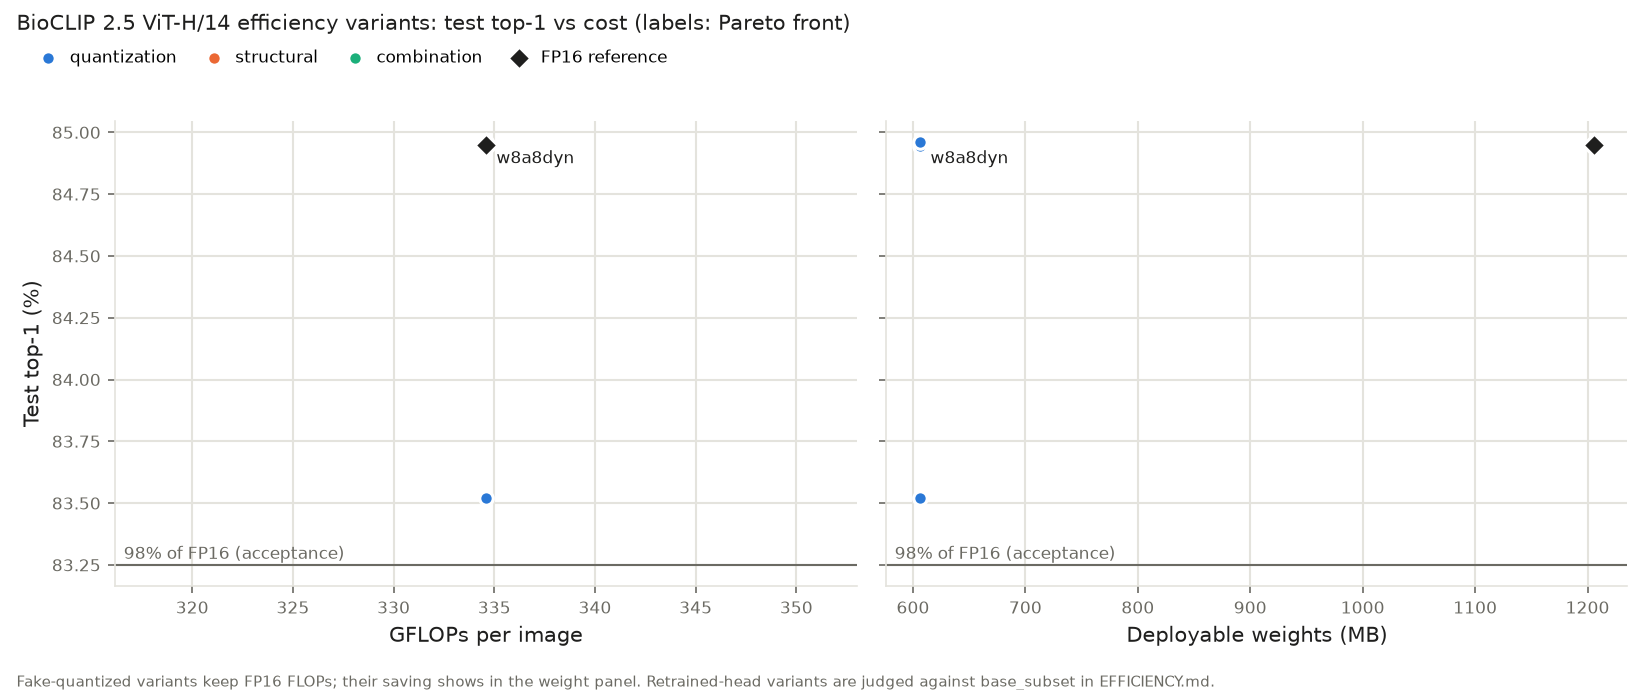
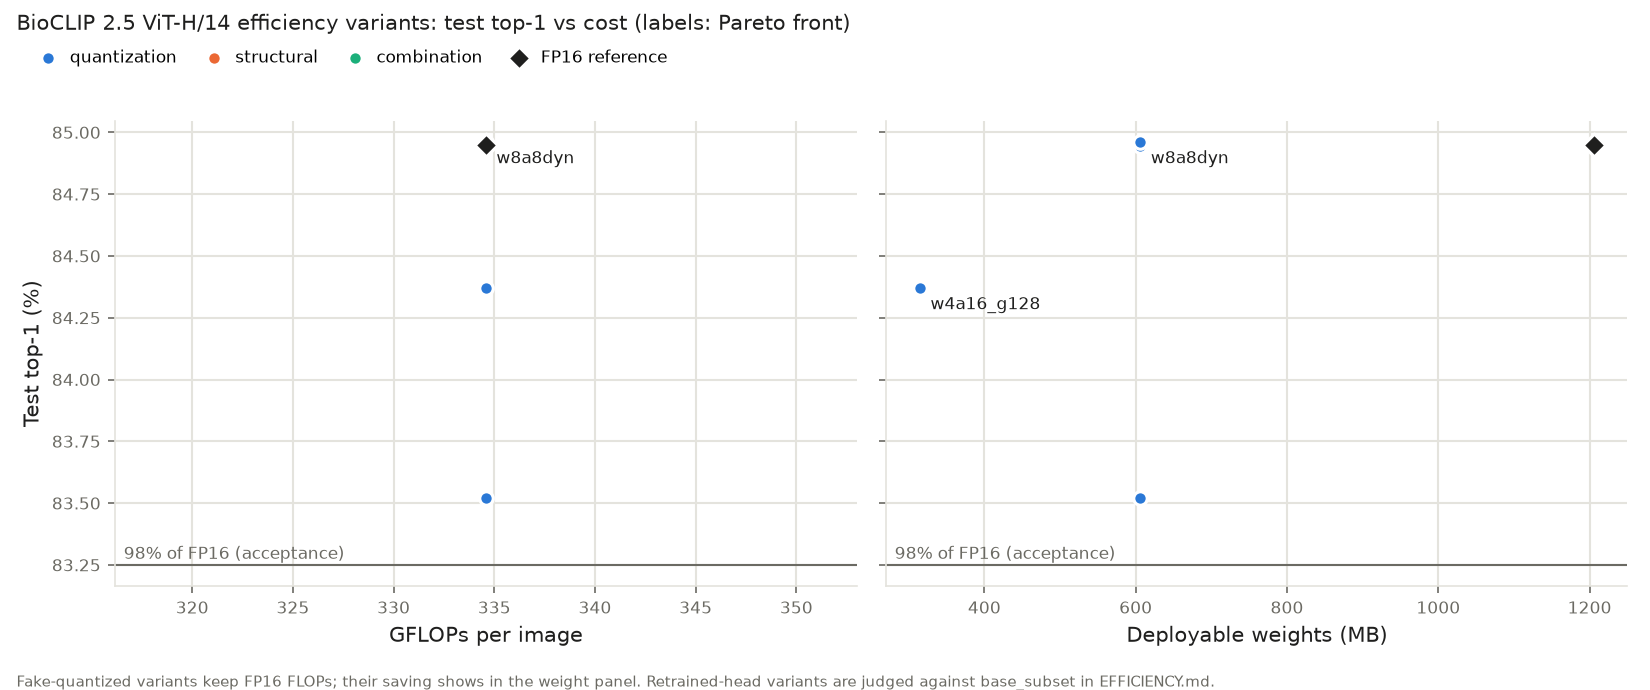
Pin the efficiency sweep's head to a frozen copy; D-029 export findings; w4a16_g128 row
artifacts/efficiency/_head/ holds the probe.pt + temperature.txt every
production-head efficiency row was scored with (byte-identical to the
current production files), so a new production probe (Phase B field
weighting) can be adopted without making the sweep's rows incomparable.

diff --git a/src/transferner/eval/efficiency.py b/src/transferner/eval/efficiency.py
@@ -39,6 +39,14 @@ from . import metrics as M
 REF = "fp16"
 
 
+def prod_head_dir(root):
+    """Head for every production-head variant: a frozen copy of artifacts/probe.pt + temperature.txt
+    taken before the sweep's first job (artifacts/efficiency/_head/), so adopting a new production
+    probe mid-sweep does not make the rows incomparable. Falls back to artifacts/."""
+    d = root / "artifacts/efficiency/_head"
+    return d if (d / "probe.pt").exists() else root / "artifacts"
+
+
 def parser() -> argparse.ArgumentParser:
     ap = argparse.ArgumentParser()
     ap.add_argument("--name", required=True)
@@ -192,10 +200,10 @@ def run(args) -> dict:
                                  "--out", f"{rel}/temperature.txt"], check=True)
         head_dir = out_dir
     else:
-        head_dir = root / "artifacts"
+        head_dir = prod_head_dir(root)
         (out_dir / "temperature.txt").write_text((head_dir / "temperature.txt").read_text())
     fn, T = head_logits(root, head_dir)
-    prod_fn, prod_T = head_logits(root, root / "artifacts")
+    prod_fn, prod_T = head_logits(root, prod_head_dir(root))
 
     sp = pd.read_parquet(root / "manifests/species.parquet").set_index("class_idx")
     row = {"name": args.name, **{k: getattr(v, k) for k in ("res", "tome_r", "drop", "w_bits", "w_group",

diff --git a/src/transferner/eval/efficiency_report.py b/src/transferner/eval/efficiency_report.py
@@ -19,6 +19,7 @@ import torch
 
 from ..utils.config import RESULTS, data_root
 from . import metrics as M
+from .efficiency import prod_head_dir
 from .evaluate import trait_flags
 
 TARGET = 0.98          # OVERNIGHT.md acceptance: partial W8A8 test top-1 >= 0.98 x FP16
@@ -53,7 +54,7 @@ def dmr_for(name: str, head: str, tox: dict[str, np.ndarray]) -> dict:
     if not (d / "test.npy").exists():
         return {}
     torch.set_num_threads(8)
-    pr = torch.load((d if head == "retrained" else root / "artifacts") / "probe.pt", map_location="cpu")
+    pr = torch.load((d if head == "retrained" else prod_head_dir(root)) / "probe.pt", map_location="cpu")
     W, b, s = pr["W"].float(), pr["b"].float(), pr["scale"]
     e = np.load(d / "test.npy", mmap_mode="r")
     pred = np.concatenate([(s * torch.from_numpy(np.asarray(e[i:i + 16384], np.float32)) @ W.T + b).argmax(-1).numpy()

diff --git a/src/transferner/quant/sensitivity.py b/src/transferner/quant/sensitivity.py
@@ -13,7 +13,7 @@ import pandas as pd
 import torch
 import torch.nn.functional as F
 
-from ..eval.efficiency import head_logits, hsort, loader
+from ..eval.efficiency import head_logits, hsort, loader, prod_head_dir
 from ..models import bioclip
 from ..models.efficient import EfficientVisual, Variant, calibrate, fq_weight
 from ..utils.config import RESULTS, data_root
@@ -54,7 +54,7 @@ def main() -> None:
         calibrate(ev, calib, "calib_channel")
         ev.smooth(args.smooth)
     calibrate(ev, calib, "calib_range")
-    fn, _ = head_logits(root, root / "artifacts")
+    fn, _ = head_logits(root, prod_head_dir(root))
     ev.q.active = set()                                   # nothing quantized: FP16 reference
     ref = embed(ev, evalb)
     ref_pred = fn(ref).argmax(-1)

diff --git a/DECISIONS.md b/DECISIONS.md
@@ -50,3 +50,24 @@ Newest at the bottom. Format: ID · date · decision · why.
   - **Sensitivity (`results/tables/quant_sensitivity.csv`):** quantizing one layer at a time on 1,024 regional val photos, `b1.fc1` dominates. Its cosine distance is 0.0179, which is 3.3× the next layer (`b30.qkv`, 0.0055), and on its own it drops top-1 from 90.4% to 89.2%, about as much as quantizing the whole model does on full val.
   - **Margin caveat:** the test margin is only 0.27 pt. The simulation quantizes linear inputs only; a real NPU compiler may also quantize attention matmuls, softmax or LayerNorm, and its calibration differs. The NPU number therefore has to be measured on the phone. Tonight's fallback check is val-only runs with `b1.fc1` (k = 1) and the top four layers (k = 4) kept in FP16 (`w8a8p_s0.5_k1/k4`; on the device that would be FP16 or 16-bit activations for those layers), which tells the app how much margin one fallback layer buys.
   - **Status:** quantization is done per the OVERNIGHT.md gate. Work moves on to structure (A3), combinations (A4) and the per-runtime report (A5).
+- **D-029 · 2026-11-19 · Export (A6, x86 feasibility): the image tower converts to LiteRT, and the NPU graph must quantize only the block linears.**
+  - **Toolchain:** litert-torch 0.10.0, torch 2.14.1+cpu and ai-edge-litert 2.3.0 in `.venv-export` (`configs/export-constraints.txt`). jax must stay below 0.12.1: jax 0.12.1 (2026-11-18) lowers GELU's erf with `vhlo.fma`, which the converter's StableHLO 1.19 serializer rejects. ExecuTorch 1.6 pins torch 2.15 and would need its own venv; it wasn't tried.
+  - **Check** (`export/litert.py`, `results/tables/export_check.csv`): image tower → normalized embedding, compared with PyTorch FP32 on 64 regional val photos (cosine; top-1 under the production head). Latency is single-image x86 XNNPACK with 8 threads.
+
+    | Recipe | Size (MB) | Cosine vs FP32 | Top-1 agreement | x86 latency |
+    |---|---|---|---|---|
+    | FP16 | 1,208 | 1.0000 | 64/64 | 322 ms |
+    | W8 weight-only | 610 | 0.9997 | 64/64 | 325 ms |
+    | W8 + dynamic INT8 activations | 610 | 0.998 | 63/64 | 110 ms |
+    | Static INT8, linears only, SmoothQuant 0.5 (D-028 scope), 32 calibration images | 620 | 0.975 | 64/64 | 126 ms |
+
+    The PT2E graph of the static INT8 recipe scores 0.974 before conversion, so the converter is faithful.
+  - **Do not use the default full-INT8 recipe:** the stock PT2E static recipe also quantizes the residual `add`, `mul` and `cat`, and it destroys the embedding: cosine 0.25 with 0/64 agreement, and 0.245 with SmoothQuant. Per-tensor INT8 cannot hold ViT-H's residual stream.
+  - **Decided:** the NPU graph quantizes the 128 block linears (weights per channel, activations static per tensor), and residual adds, LayerNorm, softmax, GELU and attention stay float. This is exactly the D-028 simulation, so D-028's accuracy numbers apply to this graph.
+  - **Conversion needs memory:** it peaks at 14–17 GB RSS, because the FP32 module (> 2 GB) is serialized once before quantization. FP32 itself isn't a shipping format; FP16 at 1.2 GB fits in one flatbuffer.
+  - **Proxy only; these need the phone:**
+    - Tensor G4 latency on the GPU delegate and the NPU.
+    - Peak memory.
+    - Whether the NPU compiler accepts INT8 linears mixed with float residual ops, or splits the graph into many partitions or CPU fallbacks.
+    - On-device accuracy.
+  - **On x86 XNNPACK,** weight-only W8 runs at FP16 speed (it saves memory only), and dynamic INT8 is 3× faster.

diff --git a/results/EFFICIENCY.md b/results/EFFICIENCY.md
@@ -9,6 +9,7 @@ Latency, memory and NPU compile need the phone; GPU img/s here is a ROCm proxy f
 | variant | family | ref | test top-1 | Δ pt | rel | test top-5 | val reg top-1 | val_ext top-1 | rare top-1 | agree ref | McNemar p | DMR contact | DMR ingest | weights MB | GFLOPs | GPU img/s |
 |---|---|---|---|---|---|---|---|---|---|---|---|---|---|---|---|---|
 | fp16 | reference | – | 84.95 | – | – | 96.45 | 90.03 | 48.89 | 57.98 | – | – | 5.46 | 4.41 | 1206 | 334.6 | 188 |
+| w4a16_g128 | quantization | fp16 | 84.37 | -0.58 | 0.9932 | 96.27 | 89.46 | 48.08 | 57.20 | 0.9473 | 7.3e-40 | 5.54 | 4.61 | 315 | 334.6 | – |
 | w8a16 | quantization | fp16 | 84.94 | -0.01 | 0.9999 | 96.45 | 90.04 | 48.82 | 58.00 | 0.9946 | 7.4e-01 | 5.44 | 4.36 | 606 | 334.6 | – |
 | w8a8dyn | quantization | fp16 | 84.96 | +0.01 | 1.0001 | 96.44 | 89.97 | 49.07 | 58.09 | 0.9800 | 6.9e-01 | 5.41 | 4.36 | 606 | 334.6 | – |
 | w8a8p_s0.5_k0 | quantization | fp16 | 83.52 | -1.43 | 0.9832 | 96.12 | 88.75 | 49.95 | 58.12 | 0.9031 | 2.9e-123 | 6.20 | 4.68 | 606 | 334.6 | – |
